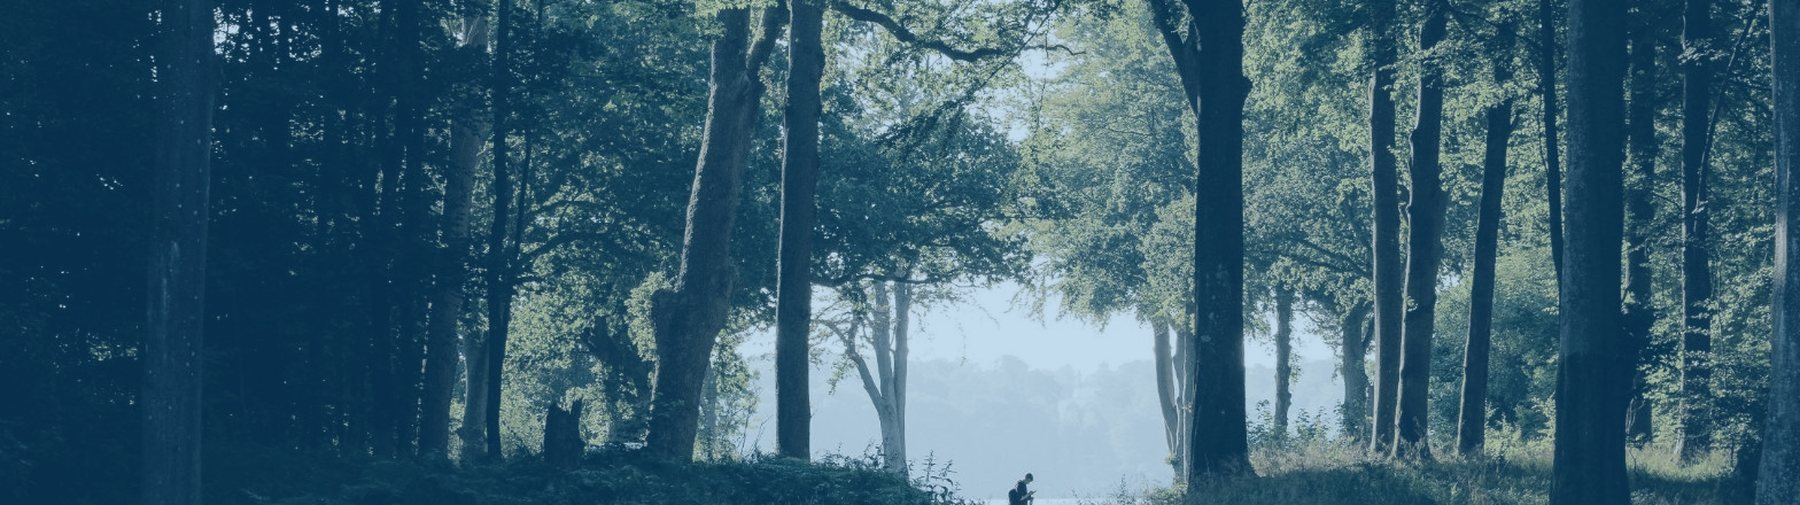
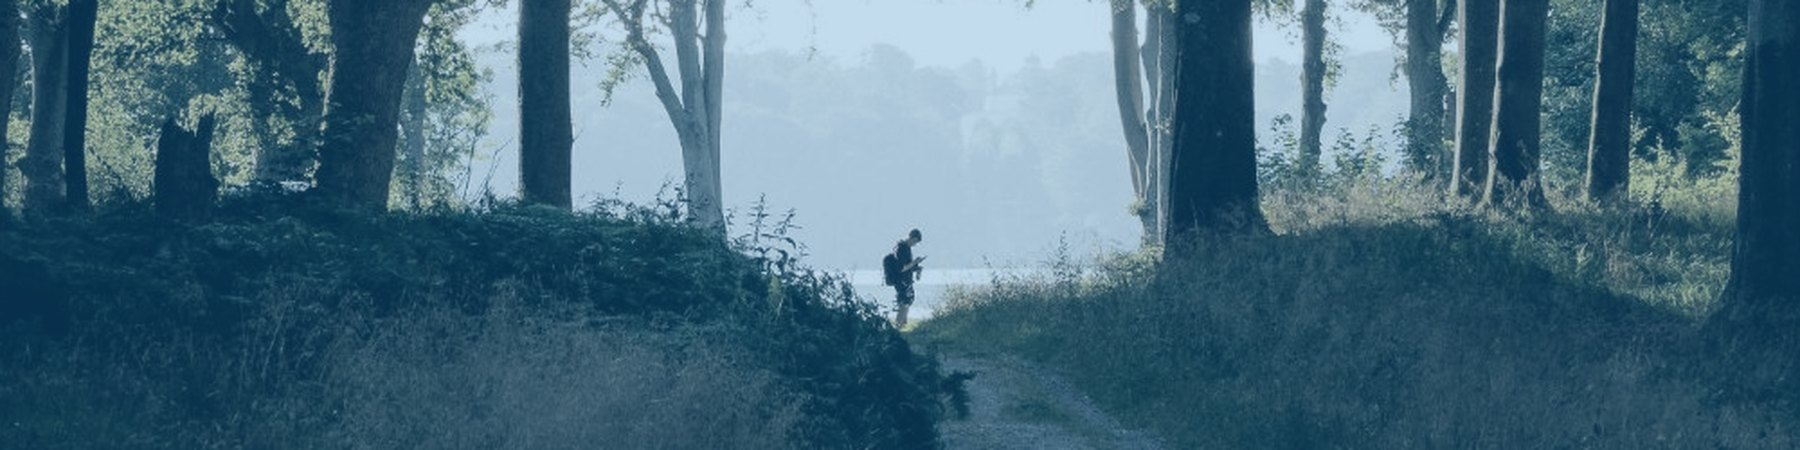
Homepage photo strip: crop centered on the walker
Claude-Session: https://claude.ai/code/session_0113jsotCNfxH92ByqoEKTTC

diff --git a/assets/style.css b/assets/style.css
@@ -257,5 +257,5 @@ img.portrait { filter: grayscale(1) contrast(1.05); }
   ::view-transition-old(root), ::view-transition-new(root) { animation-duration: .25s; }
 }
 
-.photo-divider { height: 280px; background-color: var(--primary); background-position: center 55%; background-size: cover; background-repeat: no-repeat; border-top: 6px solid var(--accent); }
+.photo-divider { height: 280px; background-color: var(--primary); background-position: center center; background-size: cover; background-repeat: no-repeat; border-top: 6px solid var(--accent); }
 @media (max-width: 680px) { .photo-divider { height: 160px; } }
